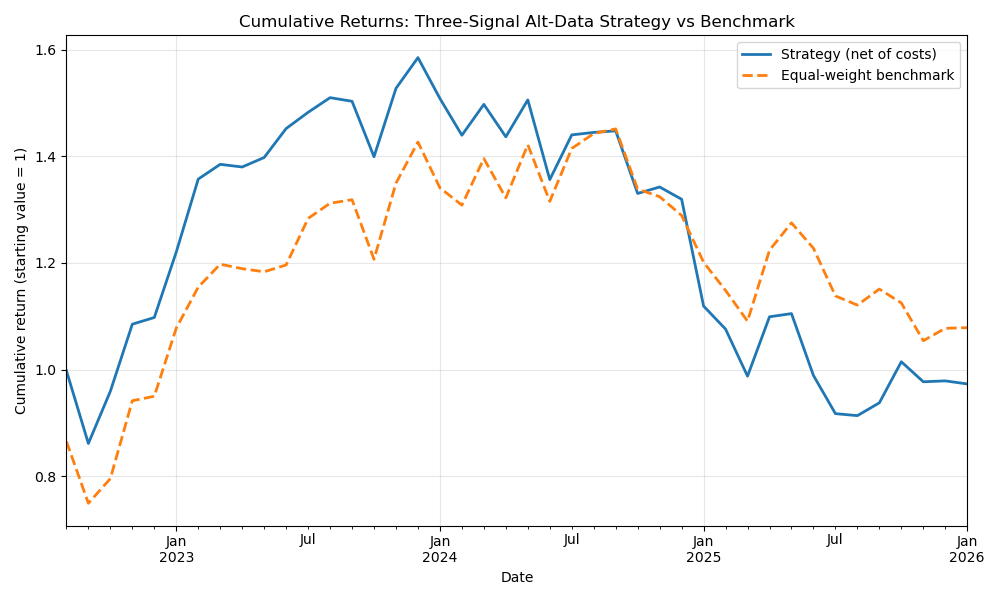
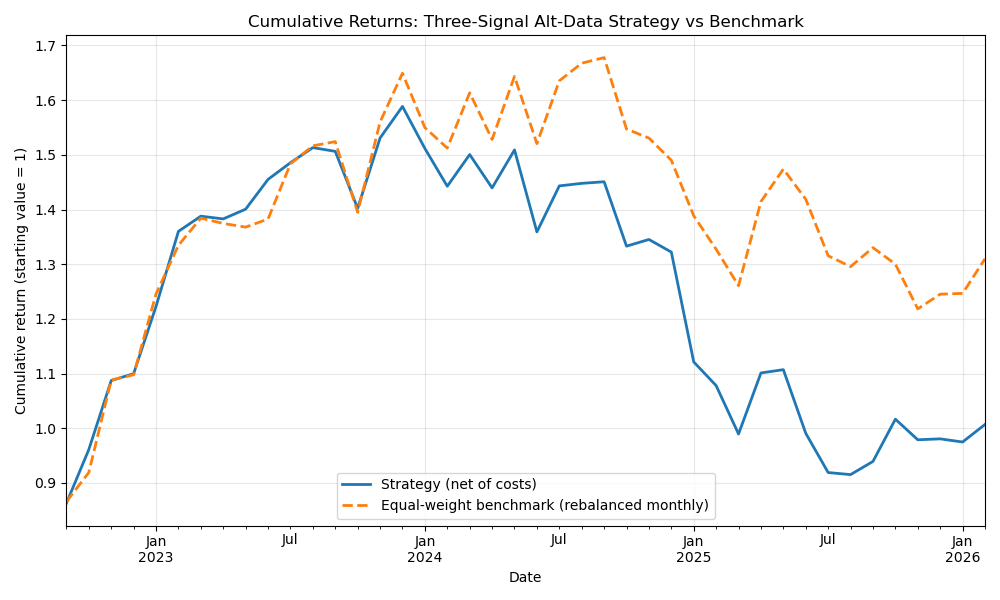
Fix dead first month and port release-date alignment, relabel benchmark, update README

diff --git a/src/backtest.py b/src/backtest.py
@@ -94,10 +94,18 @@ tc_per_month = 0.0020
 strategy_returns_net = strategy_returns - tc_per_month
 
 # ==============================================================
-# Benchmark: equal-weight buy-and-hold
+# Benchmark: equal-weight, rebalanced monthly (weights reset to 1/7
+# each month). This is NOT buy-and-hold, which would let weights drift.
 # ==============================================================
 
 benchmark_returns = returns_aligned.mean(axis=1)
+
+# Drop the first month. positions.shift(1) leaves it with no holdings,
+# so the strategy would book only the 20bp cost while the benchmark
+# earned a real return. Both series start from the first held month.
+strategy_returns = strategy_returns.iloc[1:]
+strategy_returns_net = strategy_returns_net.iloc[1:]
+benchmark_returns = benchmark_returns.iloc[1:]
 
 # ==============================================================
 # Performance metrics
@@ -142,7 +150,7 @@ os.makedirs("outputs", exist_ok=True)
 
 fig, ax = plt.subplots(figsize=(10, 6))
 (1 + strategy_returns_net).cumprod().plot(ax=ax, label="Strategy (net of costs)", linewidth=2)
-(1 + benchmark_returns).cumprod().plot(ax=ax, label="Equal-weight benchmark", linewidth=2, linestyle="--")
+(1 + benchmark_returns).cumprod().plot(ax=ax, label="Equal-weight benchmark (rebalanced monthly)", linewidth=2, linestyle="--")
 ax.set_title("Cumulative Returns: Three-Signal Alt-Data Strategy vs Benchmark")
 ax.set_xlabel("Date")
 ax.set_ylabel("Cumulative return (starting value = 1)")

diff --git a/src/build_dataset.py b/src/build_dataset.py
@@ -65,7 +65,15 @@ print(f"  Trends shape: {trends.shape}")
 
 print("Loading port freight data...")
 port = pd.read_csv("data/processed/port_freight_quarterly.csv", index_col="date", parse_dates=True)
-port_total = port[["Total_Container_Imports"]]
+port_total = port[["Total_Container_Imports"]].copy()
+
+# Index is quarter START (e.g. 2024-01-01 for Q1 2024).
+# DfT publishes about 10-11 weeks after quarter end, so a quarter is first
+# usable at the month-end roughly three months after it closes.
+# Q1 (Jan-Mar) -> usable 30 Jun. Q4 (Oct-Dec) -> usable 31 Mar.
+port_total.index = port_total.index + pd.offsets.MonthEnd(6)
+
+# Forward-fill so each month carries the most recently PUBLISHED quarter
 port_monthly = port_total.resample("ME").ffill()
 print(f"  Port freight monthly shape: {port_monthly.shape}")
 

diff --git a/README.md b/README.md
@@ -5,23 +5,23 @@ A systematic long-only equity strategy on UK consumer stocks, using three altern
 ## At a glance
 
 - **7 UK consumer stocks**, monthly rebalancing, long-only top-3
-- **Three alternative data sources**: Google Trends search interest, DfT port freight statistics, and ONS retail sales indices
+- **Three alternative data sources**, Google Trends search interest, DfT port freight statistics, and ONS retail sales indices
 - **42-month backtest** with 20bp monthly transaction cost
-- **Result**: Sharpe 0.08 (net) vs 0.21 for equal-weight benchmark. Strategy underperformed, but per-signal IC diagnostic reveals a regime shift in early 2024 - full analysis below.
+- **Result.** Net Sharpe 0.13 against 0.44 for an equal-weight benchmark rebalanced monthly. The strategy underperformed. A per-signal IC diagnostic shows the signals turning anti-predictive through 2024 before recovering in 2025, full analysis below.
 
 ## Hypothesis
 
-Consumer stock returns should be predictable, in part, from three publicly observable inputs:
+Consumer stock returns should be predictable, in part, from three publicly observable inputs.
 
-1. **Consumer attention** - if search interest in a brand is unusually high vs its recent history, this may lead its share price.
-2. **UK import activity** - if UK inbound container tonnage is unusually high, this may signal broader consumer demand strength.
-3. **Retail sales momentum** - if a stock's category (food, clothing, household) shows unusually strong YoY sales growth, that momentum may persist into next-month returns.
+1. **Consumer attention.** If search interest in a brand is unusually high against its recent history, this may lead its share price.
+2. **UK import activity.** If UK inbound container tonnage is unusually high, this may signal broader consumer demand strength.
+3. **Retail sales momentum.** If a stock's category (food, clothing, household) shows unusually strong year-on-year sales growth, that momentum may persist into next-month returns.
 
 The strategy tests whether combining these signals into a composite score, and holding the top-ranked stocks monthly, beats a naive equal-weight benchmark.
 
 ## Universe
 
-Seven FTSE-listed UK consumer stocks, chosen for meaningful UK brand recognition and mix of sub-sector exposure:
+Seven FTSE-listed UK consumer stocks, chosen for meaningful UK brand recognition and a mix of sub-sector exposure.
 
 | Ticker | Company | Sub-sector | ONS category |
 |---|---|---|---|
@@ -35,10 +35,10 @@ Seven FTSE-listed UK consumer stocks, chosen for meaningful UK brand recognition
 
 ## Data sources
 
-- **Prices:** yfinance, 5 years of daily data, resampled to month-end.
-- **Google Trends:** manually exported CSVs (trends.google.com) covering the past five years, UK region, brand-name search terms. Data is monthly frequency due to Google's default aggregation for multi-year queries.
-- **UK port freight:** DfT PORT0502 quarterly statistics (gov.uk open data). Inbound tonnage across five container-heavy UK ports (Felixstowe, London, Southampton, Grimsby & Immingham, Liverpool), forward-filled to monthly frequency to reflect the ~10 week publication lag.
-- **ONS retail sales:** UK Office for National Statistics Retail Sales Index (dataset ID: DRSI), automated download via ONS API. Chained volume year-on-year percentage change, seasonally adjusted, at category level (food, clothing, household). Each stock is mapped to the category most relevant to its business. Data is lagged by 1 month to reflect ONS's publication schedule and avoid lookahead bias.
+- **Prices.** yfinance, 5 years of daily data, resampled to month-end.
+- **Google Trends.** Manually exported CSVs (trends.google.com) covering the past five years, UK region, brand-name search terms. Data is monthly frequency due to Google's default aggregation for multi-year queries. Google scales each series from 0 to 100 against the maximum in the download window, which uses information from later dates, but a rolling z-score is unaffected by a constant rescaling, so this introduces no lookahead beyond integer rounding.
+- **UK port freight.** DfT PORT0502 quarterly statistics (gov.uk open data). Inbound tonnage across five container-heavy UK ports (Felixstowe, London, Southampton, Grimsby & Immingham, Liverpool). Each quarter is aligned to its publication date, roughly three months after quarter end, before forward-filling to monthly frequency.
+- **ONS retail sales.** UK Office for National Statistics Retail Sales Index (dataset ID DRSI), automated download via the ONS API. Chained volume year-on-year percentage change, seasonally adjusted, at category level (food, clothing, household). Each stock is mapped to the category most relevant to its business. Data is lagged by 1 month to reflect the ONS publication schedule and avoid lookahead bias.
 
 ## Method
 
@@ -46,96 +46,100 @@ Seven FTSE-listed UK consumer stocks, chosen for meaningful UK brand recognition
 2. Combine into a single monthly dataset (`master_dataset.csv`).
 3. For each stock, compute a 12-month rolling z-score of Google Trends search interest.
 4. Compute a 12-month rolling z-score of UK container port inbound tonnage (macro signal, same for all stocks).
-5. For each stock, compute a 12-month rolling z-score of its mapped ONS category YoY growth.
+5. For each stock, compute a 12-month rolling z-score of its mapped ONS category year-on-year growth.
 6. Take the equal-weighted average of the three z-scores as the composite score.
 7. Each month, hold the top three stocks by composite score, equal-weighted. Rebalance monthly at month-end.
 8. Apply a 20bp transaction cost per month as a rough allowance for rebalancing turnover.
-9. Compare against an equal-weight buy-and-hold benchmark across the same universe.
+9. Compare against an equal-weight benchmark of the same seven stocks, rebalanced monthly back to equal weights.
 
 ## Results
 
-**Sample period** August 2022 to January 2026, 42 monthly observations after the 12-month burn-in for rolling signals. The information coefficient analysis in the interpretation section uses 41 of these, excluding the final month, which has no subsequent return to predict.
+**Sample period.** September 2022 to February 2026, 42 monthly returns after the 12-month burn-in for rolling signals. The backtest and the information coefficient analysis cover the same 42 months, since each month's return is earned on positions set from the previous month's signals.
 
-| Metric | Strategy (net) | Equal-weight benchmark |
+| Metric | Strategy (net) | Equal-weight benchmark (rebalanced monthly) |
 |---|---|---|
-| Annualised return | -0.78% | 2.19% |
-| Annualised volatility | 23.68% | 24.34% |
-| Sharpe ratio | 0.08 | 0.21 |
+| Annualised return | 0.20% | 8.02% |
+| Annualised volatility | 23.73% | 23.23% |
+| Sharpe ratio | 0.13 | 0.44 |
 | Maximum drawdown | -42.4% | -27.4% |
-| Hit rate (positive months) | 54.8% | 52.4% |
+| Hit rate (positive months) | 57.1% | 54.8% |
 
-Return figures are geometric (compounded), while the Sharpe ratio annualises the arithmetic mean monthly return at a zero risk-free rate. With a maximum drawdown above 40%, the variance drag between the two conventions is large enough to leave a marginally negative compounded return alongside a marginally positive Sharpe. Both figures are correct under their stated convention.
+Return figures are geometric (compounded). The Sharpe ratio annualises the arithmetic mean monthly return at a zero risk-free rate. The two differ materially here. The strategy's arithmetic annualised mean is about 3.1% (a Sharpe of 0.13 times 23.7% volatility) against a compounded 0.20%, a variance drag of roughly 2.9 percentage points driven by the high volatility and the 42% drawdown.
+
+The strategy tracked the benchmark closely through late 2023, which is expected for a portfolio holding three of the same seven stocks, with only a modest lead in spring and summer 2023. From early 2024 it fell behind and the gap widened through 2025. A higher hit rate alongside a lower return means the winning months were small and the losing months were large.
 
 ![Equity curve](outputs/equity_curve.png)
 
-*Cumulative returns: strategy (solid line) versus equal-weight benchmark (dashed).*
+*Cumulative returns. Strategy (solid line) against the equal-weight benchmark rebalanced monthly (dashed).*
 
 ## Interpretation
 
-The signal diagnostic tests each signal individually and as a composite, measuring cross-sectional information coefficient (IC) - the month-by-month correlation between signal ranks and next-month returns across the 7 stocks.
+The signal diagnostic tests each signal individually and as a composite, measuring the cross-sectional information coefficient (IC), the month-by-month correlation between signal values and next-month returns across the 7 stocks.
 
-**Port freight is excluded from the per-signal IC analysis.** It is a macro (market-timing) signal - the same value applies to all 7 stocks in any given month, so cross-sectional IC is undefined by construction. It is retained in the composite for its market-timing exposure, but a production system would treat market-timing and stock-selection signals separately rather than combining them.
+**Port freight is excluded from the per-signal IC analysis.** It is a macro signal, so the same value applies to all seven stocks in any given month and cross-sectional IC is undefined by construction. Because the strategy is long-only and always holds the top three stocks equally, a signal that shifts every stock's score by the same amount changes neither which stocks are held nor how much is invested. In this design the port freight signal has no effect on which stocks are held. It also leaves the composite IC unchanged, since adding the same value to every stock does not change a cross-sectional correlation. A production system would use it as a separate market-timing input that scales overall exposure, rather than inside the ranking.
 
-| Signal | Full-sample IC | Pre-Jan 2024 IC | Post-Jan 2024 IC |
+| Signal | Full-sample IC | Pre-Jan 2024 IC (17 months) | Post-Jan 2024 IC (25 months) |
 |---|---|---|---|
-| Google Trends | -0.001 | +0.015 | -0.013 |
-| ONS Retail Sales | -0.033 | +0.026 | -0.074 |
-| Composite (3-signal) | -0.031 | **+0.085** | **-0.113** |
+| Google Trends | +0.014 | +0.015 | +0.014 |
+| ONS Retail Sales | -0.038 | +0.026 | -0.081 |
+| Composite | -0.030 | **+0.085** | **-0.109** |
 
 ![Signal diagnostic](outputs/signal_diagnostic.png)
 
-*12-month rolling mean IC for each signal. All three lines follow closely correlated trajectories - the signals capture the same underlying consumer momentum theme rather than adding independent information.*
+*12-month rolling mean IC for each signal. All three fell together through 2024 and recovered through 2025, with Google Trends recovering furthest.*
 
 ### What the diagnostic shows
 
-The signals were modestly predictive pre-2024 and decisively anti-predictive through 2024-25, with a gradual recovery toward zero in late 2025. All three signals moved together, and the composite amplified both the pre-2024 positive IC and the post-2024 negative IC.
+The signals were modestly predictive in 2023, fell together into clearly negative territory through 2024, and recovered through 2025. Google Trends recovered furthest and ended as the strongest of the three, while the composite finished just below zero.
+
+The simple split at January 2024 hides this for Google Trends. Its post-2024 mean of +0.014 matches its pre-2024 mean, but only because a deep 2024 trough and a strong late-2025 recovery cancel out. ONS and the composite show a clear shift on both measures. The composite amplified the swings in both directions because its components moved together rather than adding independent information.
 
 ### Why the signal likely broke down
 
 With only 42 observations no explanation can be proved, but the timing is consistent with a change in what actually drove UK consumer stock returns.
 
-Through 2022 and most of 2023, the Bank of England was still hiking (peaking at 5.25% in August 2023) and consumer stocks moved primarily on operational fundamentals - retail sales, footfall, brand momentum. The signals here measure exactly that, and had modest positive predictive power in that period.
+Through 2022 and most of 2023, the Bank of England was still hiking (peaking at 5.25% in August 2023) and consumer stocks moved primarily on operational fundamentals such as retail sales, footfall and brand momentum. The signals here measure exactly that, and had modest positive predictive power in that period.
 
-From late 2023 the narrative shifted. Cuts were repeatedly deferred as inflation stayed sticky, and consumer stocks became rates-sensitive plays rather than earnings-driven ones. Then in October 2024 the Autumn Budget announced a large increase in employer National Insurance contributions taking effect April 2025, hitting exactly the retailers, pubs and restaurants in this universe on cost structure regardless of top-line demand.
+From late 2023 the narrative shifted. Cuts were repeatedly deferred as inflation stayed sticky, and consumer stocks became rates-sensitive plays rather than earnings-driven ones. Then in October 2024 the Autumn Budget announced a large increase in employer National Insurance contributions taking effect in April 2025, hitting exactly the retailers, pubs and restaurants in this universe on cost structure regardless of top-line demand.
 
-Once the market started pricing consumer stocks on rate expectations and cost inflation rather than on demand strength, signals that measure demand strength lost their edge. A retailer with strong Google Trends and rising ONS food sales could still get sold if its wage bill was about to jump or if a rate cut got pushed back.
+Once the market started pricing consumer stocks on rate expectations and cost inflation rather than on demand strength, signals that measure demand strength lost their edge. A retailer with strong Google Trends and rising ONS food sales could still get sold if its wage bill was about to jump or if a rate cut got pushed back. The 2025 recovery is consistent with those drivers easing, but it is too short and too dependent on a few months to confirm.
 
 ### Why the natural fix is not simply "switch signals"
 
-A naive response is to switch to a different signal in January 2024 when the IC turned. This is exactly the wrong lesson. On 31 January 2024 no live investor knew a regime shift had begun - the rolling IC did not cross zero until several months later. Any "switch" designed knowing what happened next is in-sample optimisation: it fits the backtest to the exact history observed and would fail live.
+A naive response is to switch to a different signal in early 2024 when the IC turned. This is exactly the wrong lesson. On 31 January 2024 no live investor knew a regime shift had begun. The rolling ICs sat close to zero and were only starting to turn, becoming clearly negative from spring 2024. Even then a negative rolling IC cannot distinguish a regime change from a bad patch. The 2025 recovery shows the cost of treating it as a regime change, since an investor who dropped Google Trends in mid-2024 would have abandoned it shortly before it recovered. Any switch designed knowing what happened next is in-sample optimisation. It fits the backtest to the exact history observed and would fail live.
 
 The professional approach is either (a) a multi-signal ensemble with dynamic weighting across many independent signals, or (b) an explicit regime-detection model that predicts the current market driver. Both need far more data and signals than this project has.
 
-The realistic next iteration for this project is a fourth signal that captures the driver the market actually switched to - SONIA futures or gilt yield changes as a rates factor - so the composite has exposure to both demand momentum and rates. That would let the strategy adapt to whichever driver is dominant without fitting to observed regime breaks.
+The realistic next iteration is a further signal that captures the driver the market switched to, SONIA futures or gilt yield changes as a rates factor, so the composite has exposure to both demand momentum and rates. That would let the strategy adapt to whichever driver is dominant without fitting to observed regime breaks.
 
-### Two competing readings of the pre-2024 IC of +0.085
+### Two competing readings of the pre-2024 composite IC of +0.085
 
-- **Favourable:** the signals genuinely captured consumer momentum in a period when that mattered, and the shift to a negative IC reflects the macro drivers described above.
-- **Skeptical:** with 17 pre-period months, +0.085 could arise from noise. The recovery in late 2025 could be a re-emergence of signal or continued noise. Distinguishing requires more data.
+- **Favourable.** The signals genuinely captured consumer momentum in a period when that mattered, and the shift to a negative IC reflects the macro drivers described above.
+- **Skeptical.** With 17 pre-period months, +0.085 could arise from noise. The recovery in late 2025 could be a re-emergence of signal or continued noise. Distinguishing between them requires more data.
 
-Both readings are defensible. With 41 total observations, no result should be treated as robust.
+Both readings are defensible. With 42 total observations, no result should be treated as robust.
 
 ## Limitations
 
-- **Sample size.** The analysis rests on 41 to 42 monthly observations. Confidence intervals on the Sharpe ratio and the information coefficients are correspondingly wide, and any covariance or correlation estimate built on this few points is fragile. A single adverse month moves the ICs materially. None of the point estimates should be treated as precise.
-- **Trends frequency.** Google Trends returned monthly data for the multi-year query. Weekly-frequency Trends data (achievable with rolling shorter queries stitched together) would materially increase sample size.
-- **Port freight is macro-uniform.** The same value applies to all stocks, so it doesn't help select between them - it only tilts the whole portfolio in or out. Including it in a cross-sectional composite is conceptually imperfect.
-- **ONS category mapping is coarse.** Wetherspoons and Domino's are mapped to "food stores" but their businesses (pub food, pizza delivery) are only loosely related to the retail food category ONS tracks.
+- **Sample size.** The analysis rests on 42 monthly returns. Confidence intervals on the Sharpe ratio and the information coefficients are correspondingly wide, and any covariance or correlation estimate built on this few points is fragile. The fragility is directly visible. Adding a single month, February 2026, moved the Google Trends full-sample IC from -0.001 to +0.014 and turned its post-2024 mean from negative to positive. None of the point estimates should be treated as precise.
+- **Trends frequency.** Google Trends returned monthly data for the multi-year query. Weekly Trends data, achievable with rolling shorter queries stitched together, would materially increase sample size.
+- **Port freight is macro-uniform.** The same value applies to all stocks, so it cannot change the ranking, and because the portfolio is always fully invested it cannot change exposure either. Using it properly would need a separate rule that scales exposure up or down.
+- **ONS category mapping is coarse.** Wetherspoons and Domino's are mapped to food stores, but their businesses (pub food, pizza delivery) are only loosely related to the retail food category ONS tracks.
 - **Universe is small and UK-focused.** Extending to a broader FTSE 250 consumer basket would improve statistical power.
-- **Transaction costs are a rough approximation.** A production version would model bid-ask spreads, stamp duty, and slippage per trade rather than a flat monthly haircut.
-- **Backtest is not live.** No paper trading has been run; results are historical simulation only.
+- **Transaction costs are a rough approximation.** The 20bp cost is charged every month regardless of actual turnover, and the benchmark carries no costs. A production version would model bid-ask spreads, stamp duty and slippage per trade.
+- **Backtest is not live.** No paper trading has been run. Results are historical simulation only.
 
 ## Extensions
 
-- **Rates factor** (SONIA futures or 2Y gilt yield changes) to add exposure to whichever driver is currently dominant - demand momentum or rates sensitivity
-- Weekly Google Trends via rolling shorter queries, stitched together, to increase sample size from 42 to ~180 observations
+- **Rates factor** (SONIA futures or 2Y gilt yield changes) to add exposure to whichever driver is currently dominant, demand momentum or rates sensitivity
+- Weekly Google Trends via rolling shorter queries, stitched together, to increase sample size from 42 to around 180 observations
 - Broader universe (FTSE 250 consumer names) for better cross-sectional differentiation
 - Long-short version with market-neutral construction
-- Multi-signal ensemble with dynamic weighting when signal count is high enough to support it
+- Multi-signal ensemble with dynamic weighting once the signal count is high enough to support it
 
 ## How to run
 
-Requirements: Python 3.11+ and the libraries listed in `requirements.txt`.
+Requires Python 3.11+ and the libraries listed in `requirements.txt`.
 
 ```bash
 pip install -r requirements.txt
@@ -150,11 +154,12 @@ python src/diagnostic.py        # per-signal IC diagnostic
 
 Google Trends CSVs must be manually downloaded from trends.google.com (5-year queries, UK region) and placed in `data/raw/` as `[ticker]_trends.csv`.
 
-DfT port freight ODS must be downloaded from gov.uk (PORT0502 quarterly data) and placed as `data/raw/port0502.ods`.
+The DfT port freight ODS must be downloaded from gov.uk (PORT0502 quarterly data) and placed at `data/raw/port0502.ods`.
 
-ONS retail sales data downloads automatically via API on first run.
+ONS retail sales data downloads automatically via the API on first run.
 
 ## Repository structure
+
 ```
 uk-consumer-alt-data/
 ├── README.md
@@ -175,6 +180,10 @@ uk-consumer-alt-data/
     ├── signal_diagnostic.png
     └── strategy_returns.csv
 ```
+
+## Changelog
+
+- **31 October 2026.** Removed the first month of the backtest, in which the strategy held no position but was still charged the 20bp cost while the benchmark took that month's full return. The benchmark fell sharply that month, so the error had flattered the strategy's relative performance. Realigned the quarterly port freight data to its publication date, since it had previously been used up to five months before release. Because port freight shifts every stock's score equally, this changed no holdings and no monthly return, which was confirmed by diffing the strategy return series. The earlier alignment had cut the sample one month short, so February 2026 now enters. Relabelled the benchmark as equal-weight rebalanced monthly rather than buy-and-hold, with no change to its calculation. Headline Sharpe ratios are now 0.13 against 0.44 over September 2022 to February 2026, previously 0.08 against 0.21 over August 2022 to January 2026.
 
 ## Disclaimer
 
